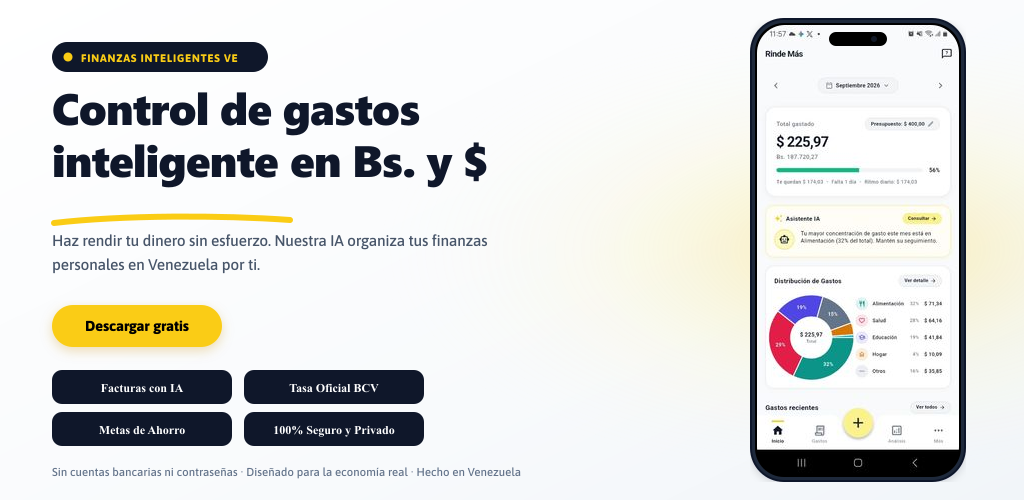
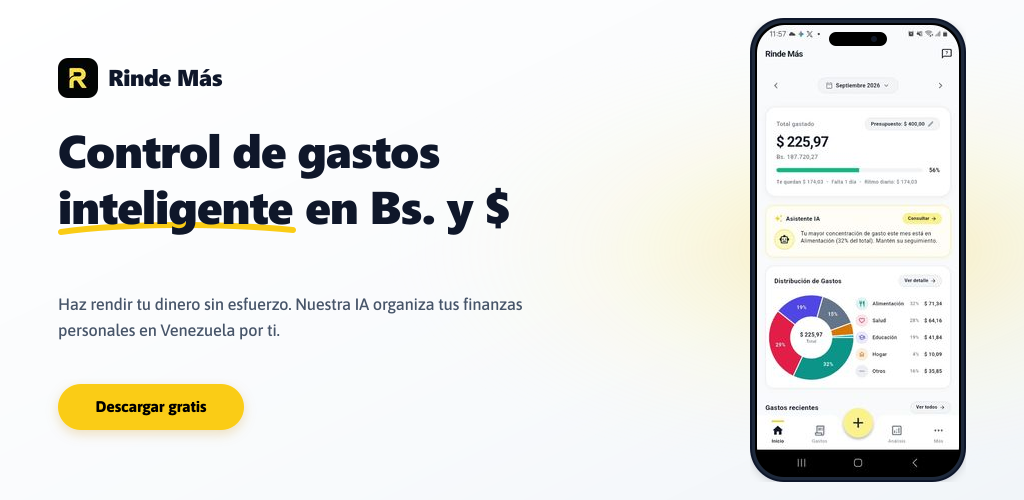
feat(assets): actualizar grafico de funciones minimalista y generar 5 capturas oficiales de Play Store

Changed region(s): [[0.0312, 0.06, 0.5, 0.54], [0.0312, 0.6, 0.5312, 0.9], [0.0312, 0.93, 0.5, 0.96]]

diff --git a/DOC_FICHA_PLAY_STORE.md b/DOC_FICHA_PLAY_STORE.md
@@ -57,16 +57,20 @@ Todos los recursos listos para subir a Google Play Console se encuentran central
 | Recurso | Archivo | Dimensiones | Formato y Peso | Estado |
 |---|---|---|---|---|
 | **Icono de la app** | `assets/icon/playstore_icon_512.png` | 512 × 512 px | PNG (228 KB, < 1 MB) | Listo ✅ |
-| **Gráfico de funciones** | `Google Play Assets/grafico_funciones_1024x500.png` | 1024 × 500 px | PNG (168 KB, < 15 MB) | Generado y Aprobado ✅ |
-| **Capturas de pantalla** | En preparación con plantillas verticales | Mín. 2 (1080 × 1920 px) | PNG / JPEG | Pendiente generación de mockups |
+| **Gráfico de funciones** | `Google Play Assets/grafico_funciones_1024x500.png` | 1024 × 500 px | PNG (152 KB, < 15 MB) | Listo ✅ |
+| **Captura 1: Control Total** | `Google Play Assets/screenshots/screenshot_1_control_total.png` | 1080 × 2280 px | PNG (710 KB) | Listo ✅ |
+| **Captura 2: Registro Inteligente** | `Google Play Assets/screenshots/screenshot_2_registro_inteligente.png` | 1080 × 2280 px | PNG (482 KB) | Listo ✅ |
+| **Captura 3: Finanzas y Metas** | `Google Play Assets/screenshots/screenshot_3_finanzas_y_metas.png` | 1080 × 2280 px | PNG (645 KB) | Listo ✅ |
+| **Captura 4: Asistente con IA** | `Google Play Assets/screenshots/screenshot_4_asistente_con_ia.png` | 1080 × 2280 px | PNG (684 KB) | Listo ✅ |
+| **Captura 5: Seguridad y Privacidad** | `Google Play Assets/screenshots/screenshot_5_seguridad_y_privacidad.png` | 1080 × 2280 px | PNG (532 KB) | Listo ✅ |
 
 ---
 
 ## 3. Especificaciones del Gráfico de Funciones
-- **Fondo:** Blanco limpio con degradado sutil `#FFFFFF` a `#F8FAFC` y halo radial amarillo `#FACC15` (10% a 32% opacidad).
+- **Fondo:** Blanco limpio con degradado sutil `#FFFFFF` a `#F8FAFC` y halo radial amarillo `#FACC15` suave.
 - **Titular y Contraste (`DESIGN.md`):** 
+  - Cabecera con logo oficial cuadrado redondeado + texto de marca `Rinde Más`.
   - Título principal en azul pizarra profundo `#0F172A`.
-  - Acento curvo amarillo `#FACC15` destacando la palabra *«inteligente»*.
-  - Botón CTA *«Descargar gratis»* en amarillo vibrante `#FACC15` con texto estrictamente negro `#000000`.
-  - Pastillas de pilares en `#0F172A` con texto blanco.
+  - Trazo curvo amarillo `#FACC15` inmediatamente debajo de *«inteligente»*.
+  - Botón CTA *«Descargar gratis»* en amarillo `#FACC15` con texto estrictamente negro `#000000`.
 - **Mockup:** Smartphone estilizado con bordes redondeados y Dynamic Island mostrando la pantalla principal real de Rinde Más.
